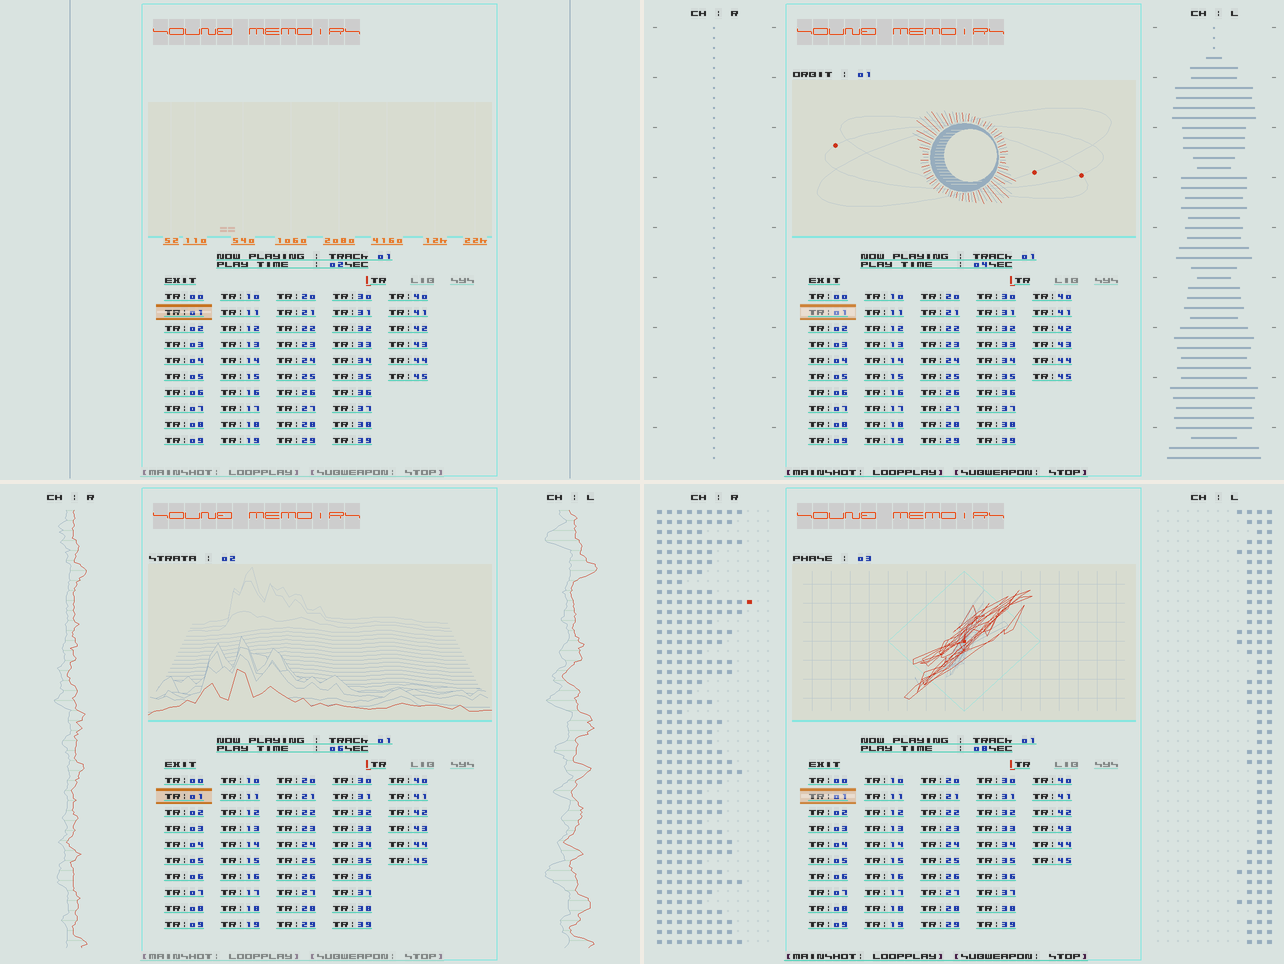
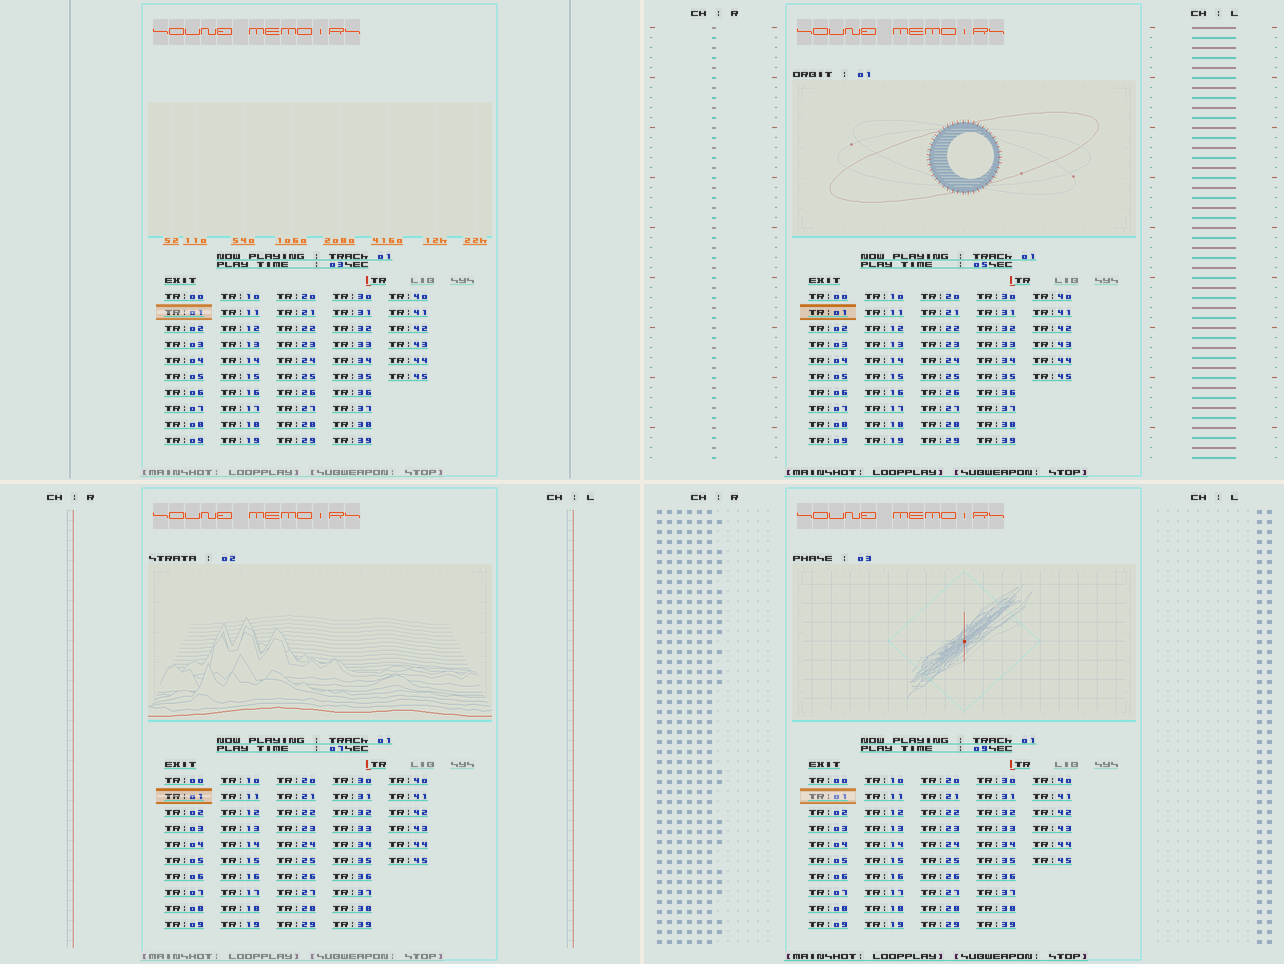
feat(windows): sharpen playback motion and wing color scales
fix: drive stage envelopes by elapsed time and clear stale motion on stop

fix: keep custom stage modes independent of playback frame timing

feat: expand the eclipse ring from low-frequency onset and sustain

feat: alternate wing rows between two theme colors and add fixed edge scales

feat: add shared calibration paper to custom stage modes

diff --git a/src/stage.cpp b/src/stage.cpp
@@ -1,4 +1,5 @@
 #include "stage.h"
+#include <algorithm>
 #include <cmath>
 #include <cstdio>
 
@@ -11,11 +12,45 @@ const wchar_t* wingName(int i){
     static const wchar_t* names[]={L"Auto / 跟随中央",L"Level / 原版电平",L"Fold / 折叠波形",L"Ribbon / 双线带谱",L"Matrix / 点阵"};
     return names[i>=0 && i<wingCount?i:0];
 }
-void Memory::advance(const memoirs::Spectrum& s,int id,double seconds,bool running){
-    if(id!=track || (running && last>=0 && (seconds+.10<last || seconds-last>1.0))) {
+namespace {
+float follow(float current,float target,float dt,double attack,double release){
+    const double tau=target>current?attack:release;
+    return current+(target-current)*float(1.0-std::exp(-dt/tau));
+}
+float smoothstep(float edge0,float edge1,float value){
+    const float t=std::clamp((value-edge0)/(edge1-edge0),0.f,1.f);
+    return t*t*(3.f-2.f*t);
+}
+float channelDrive(float env,const float* wave){
+    double sum=0;
+    for(int i=0;i<240;i+=4){const double v=wave[i]/64.0;sum+=v*v;}
+    const float rms=float(std::sqrt(sum/60.0));
+    return smoothstep(.02f,.78f,std::max(env*2.7f,rms*1.8f));
+}
+}
+void Memory::advance(const memoirs::Spectrum& s,int id,double seconds,bool playing,bool paused){
+    if(id!=track || (playing && motion>=0 && (seconds+.10<motion || seconds-motion>1.0))){
         *this=Memory{}; track=id;
     }
-    if(!running || (last>=0 && seconds>=last && seconds-last<.045))return;
+    if(!playing){*this=Memory{};track=id;return;}
+    if(paused)return;
+    float dt=motion>=0?float(seconds-motion):1.f/60.f;
+    if(dt<=0)return;
+    dt=std::clamp(dt,.001f,.12f);
+    motion=seconds;
+
+    float low=0;
+    for(int i=0;i<6;++i)low+=std::clamp(s.barsLevel[i]/96.f,0.f,1.f);
+    low/=6.f;
+    lowFloor=follow(lowFloor,low,dt,.18,1.1);
+    lowSustain=follow(lowSustain,low,dt,.045,.75);
+    const float attack=std::max(0.f,low-lowFloor)*1.55f+std::max(0.f,low-lastLow)*.85f;
+    impact=follow(impact,std::clamp(attack,0.f,1.f),dt,.022,.24);
+    lastLow=low;
+    wing[0]=follow(wing[0],channelDrive(s.envL,s.waveL),dt,.030,.30);
+    wing[1]=follow(wing[1],channelDrive(s.envR,s.waveR),dt,.030,.30);
+
+    if(last>=0 && seconds>=last && seconds-last<.045)return;
     last=seconds;
     head=(head+1)%24; trace=(trace+1)%6; samples=std::min(24,samples+1);
     for(int i=0;i<43;i++)ridges[head][i]=std::min(1.f,s.barsLevel[i]/96.f);
@@ -43,22 +78,28 @@ POINT orbit(double a,double rad,double squash,double angle,int x,int y){
     double u=rad*cos(a),v=rad*squash*sin(a);
     return {LONG(std::lround(x+u*cos(angle)-v*sin(angle))),LONG(std::lround(y+u*sin(angle)+v*cos(angle)))};
 }
-void eclipse(Paper p,const Palette& c,const memoirs::Spectrum& s,double time){
+void eclipse(Paper p,const Palette& c,const memoirs::Spectrum& s,const Memory& m){
     constexpr int cx=320,cy=157;
+    const int ring=136+int(14*m.lowSustain+12*m.impact);
     for(int k=0;k<3;k++){
         POINT pts[97];const double tilt=(k-1)*.24;
-        for(int j=0;j<=96;j++)pts[j]=orbit(tau*j/96,151-k*12,.23,tilt,cx,cy);
-        p.path(pts,97,c.grid);
-        auto q=orbit(time*(.23+k*.08)+k*2,151-k*12,.23,tilt,cx,cy);
-        p.disc(q.x,q.y,2,c.accent);
+        for(int j=0;j<=96;j++)pts[j]=orbit(tau*j/96,ring-k*12,.23,tilt,cx,cy);
+        p.path(pts,97,k==0&&m.impact>.08f?mix(c.grid,c.accent,.28+.36*m.impact):c.grid);
+        if(m.lowSustain>.035f){
+            auto q=orbit(std::max(0.,m.last)*(.23+k*.08)+k*2,ring-k*12,.23,tilt,cx,cy);
+            p.disc(q.x,q.y,1+int(2*m.impact),mix(c.grid,c.accent,.32+.68*m.impact));
+        }
     }
-    p.disc(cx,cy,34,c.line);
-    for(int y=-30;y<=30;y+=3){int w=int(sqrt(900-y*y));p.rule(cx-w,cy+y,cx+w,cy+y,c.field);}
-    p.disc(cx+6,cy-2,26,c.field);
+    const int core=30+int(5*m.lowSustain+6*m.impact);
+    p.disc(cx,cy,core+4,c.line);
+    for(int y=-core;y<=core;y+=3){int w=int(sqrt(std::max(0,core*core-y*y)));p.rule(cx-w,cy+y,cx+w,cy+y,c.field);}
+    p.disc(cx+6,cy-2,std::max(18,core-8),c.field);
+    const int inner=34+int(8*m.impact);
     for(int j=0;j<86;j++){
         double a=tau*j/86;
-        int r=39+int(sqrt(std::min(1.f,s.barsLevel[j%43]/100.f))*25);
-        auto v=orbit(a,36,1,0,cx,cy),w=orbit(a,r,1,0,cx,cy);
+        const float local=std::sqrt(std::min(1.f,s.barsLevel[j%43]/100.f));
+        int r=inner+4+int(local*24+7*m.impact);
+        auto v=orbit(a,inner,1,0,cx,cy),w=orbit(a,r,1,0,cx,cy);
         p.rule(v.x,v.y,w.x,w.y,j%2?c.line:c.accent);
     }
 }
@@ -90,6 +131,38 @@ void phase(Paper p,const Palette& c,const Memory& m){
     }
     p.fill(x-1,y-1,3,3,c.accent);
 }
+void calibration(Paper p,const Palette& c){
+    const C dot=mix(c.field,c.grid,.32);
+    const C guide=mix(c.field,c.grid,.13);
+    for(int x=172;x<484;x+=48)p.rule(x,88,x,228,guide);
+    for(int y=92;y<232;y+=32)p.rule(158,y,482,y,guide);
+    for(int y=88;y<232;y+=12)
+        for(int x=156;x<484;x+=12)p.fill(x,y,1,1,dot);
+
+    const C rail=mix(c.field,c.grid,.62);
+    p.rule(154,84,154,232,rail);
+    p.rule(486,84,486,232,rail);
+    for(int y=88,i=0;y<232;y+=6,++i){
+        const int length=i%5==0?6:2;
+        p.rule(154,y,154+length,y,rail);
+        p.rule(486-length,y,486,y,rail);
+    }
+    for(int x=160,x0=0;x<486;x+=8,++x0){
+        const int length=x0%5==0?4:2;
+        p.rule(x,84,x,84+length,rail);
+        p.rule(x,232-length,x,232,rail);
+    }
+    for(int k=0;k<12;k++){
+        p.rule(158+k,88,158,88,rail);
+        p.rule(482-k,88,482,88,rail);
+        p.rule(158+k,228,158,228,rail);
+        p.rule(482-k,228,482,228,rail);
+    }
+    p.rule(158,88,158,100,rail);
+    p.rule(482,88,482,100,rail);
+    p.rule(158,216,158,228,rail);
+    p.rule(482,216,482,228,rail);
+}
 }
 void paint(const Palette& c,HDC d,float scale,int mode,const memoirs::Spectrum& s,const Memory& m){
     int save=SaveDC(d);if(!save)return;
@@ -97,7 +170,8 @@ void paint(const Palette& c,HDC d,float scale,int mode,const memoirs::Spectrum& 
     SetViewportExtEx(d,int(640*scale+.5f),int(480*scale+.5f),nullptr);
     IntersectClipRect(d,148,80,492,238);SelectObject(d,GetStockObject(DC_PEN));SelectObject(d,GetStockObject(DC_BRUSH));
     Paper p{d};p.fill(148,80,344,158,c.field);
-    if(mode==1)eclipse(p,c,s,std::max(0.,m.last));else if(mode==2)strata(p,c,m);else phase(p,c,m);
+    calibration(p,c);
+    if(mode==1)eclipse(p,c,s,m);else if(mode==2)strata(p,c,m);else phase(p,c,m);
     p.fill(148,236,344,2,c.frame);
     RestoreDC(d,save);
 }

diff --git a/src/ui.cpp b/src/ui.cpp
@@ -1033,7 +1033,7 @@ void moveCursor(int delta) {
     if(!matches.empty()) cursor=std::clamp(cursor+delta,0,(int)matches.size()-1);
 }
 void playCursor() { if(!matches.empty()) OpenMusic(g_app.playlist[matches[cursor]]); }
-void PaintWings(HDC dc,int style){
+void PaintWings(HDC dc,int style,const stage::Memory& motion){
     if(style==1){ PaintLevelMeter(dc); PaintSideWave(dc); return; }
     const auto& t=Th();
     for(int side=0;side<2;++side){
@@ -1052,14 +1052,26 @@ void PaintWings(HDC dc,int style){
             SetDCPenColor(dc,t.wave);Polyline(dc,upper,220);
             SetDCPenColor(dc,t.bar);Polyline(dc,lower,220);SelectObject(dc,old);
         }else{
+            const int span=2+int(61*std::clamp(motion.wing[side],0.f,1.f));
             for(int row=0;row<44;row++){
                 float peak=0;
                 for(int j=0;j<5;j++)peak=std::max(peak,std::abs(wave[row*5+j]));
-                int width=1+int(59*sqrt(std::min(1.f,peak/64.f))), y=27+row*10;
+                const float contour=.34f+.66f*sqrt(std::min(1.f,peak/64.f));
+                int width=2+int((span-2)*contour), y=27+row*10;
                 if(style==2){
-                    FillRectCol(dc,S(base-width),S(y),S(base+width),S(y+2),t.wave);
-                    if(row%5==0)for(int edge:{-61,58})
-                        FillRectCol(dc,S(base+edge),S(y),S(base+edge+4),S(y+1),t.hint);
+                    const float heat=std::clamp(contour*.62f+motion.wing[side]*.38f,0.f,1.f);
+                    const COLORREF ink=row&1
+                        ?LerpCol(t.wave,t.underline,.62f+.16f*heat)
+                        :LerpCol(t.wave,t.bar,.08f+.34f*heat);
+                    FillRectCol(dc,S(base-width),S(y),S(base+width),S(y+2),ink);
+                    const int length=row%5==0?5:2;
+                    const COLORREF tick=row%5==0
+                        ?LerpCol(t.hint,t.bar,.34f+.34f*heat)
+                        :LerpCol(t.hint,t.underline,.42f+.22f*heat);
+                    for(int edge:{-64,63}){
+                        const int x=base+edge;
+                        FillRectCol(dc,S(x),S(y),S(x+(edge<0?length:-length)),S(y+1),tick);
+                    }
                 }else{
                     for(int col=0;col<12;col++){
                         int x=base+(side?-1:1)*(col*10-55);
@@ -1077,7 +1089,7 @@ void PaintScene(HDC dc) {
     SetBkMode(dc, TRANSPARENT);
     PaintBackdrop(dc);
     const int mode=g_app.settings->stageMode;
-    PaintWings(dc,g_app.settings->wingMode?g_app.settings->wingMode:mode+1);
+    PaintWings(dc,g_app.settings->wingMode?g_app.settings->wingMode:mode+1,stageMemory);
     PaintFrame(dc);
     if(!mode) PaintSpectrum(dc);
     else {
@@ -1165,9 +1177,9 @@ void OnTimer(HWND hwnd) {
         if(next>=0 && next<count) OpenMusic(app.playlist[next]);
     }
     UpdateVisualization();
-    if(app.settings->stageMode)
-        stageMemory.advance(app.spectrum,app.current==kTrackCount?kTrackCount+app.localIndex:app.current,
-            app.audio.positionSeconds(),app.audio.isPlaying()&&!app.audio.isPaused());
+    const bool playing=app.audio.isPlaying();
+    stageMemory.advance(app.spectrum,app.current==kTrackCount?kTrackCount+app.localIndex:app.current,
+        app.audio.positionSeconds(),playing,playing&&app.audio.isPaused());
     ++app.tick;
     InvalidateRect(hwnd, NULL, FALSE);
 }

diff --git a/src/stage.h b/src/stage.h
@@ -11,10 +11,13 @@ const wchar_t* wingName(int mode);
 struct Memory {
     std::array<std::array<float,43>,24> ridges{};
     std::array<std::array<POINT,120>,6> traces{};
+    float lowSustain=0, impact=0, lowFloor=0, lastLow=0;
+    float wing[2]{};
     int head=0, trace=0, samples=0;
     double last=-1;
+    double motion=-1;
     int track=-1;
-    void advance(const memoirs::Spectrum&, int id, double seconds, bool running);
+    void advance(const memoirs::Spectrum&, int id, double seconds, bool playing, bool paused);
 };
 struct Palette { COLORREF field, grid, line, accent, frame; };
 void paint(const Palette&,HDC,float scale,int mode,const memoirs::Spectrum&,const Memory&);

diff --git a/docs/visual-motion-roadmap.md b/docs/visual-motion-roadmap.md
@@ -1,6 +1,6 @@
 # Windows 播放演出：下一轮动效调整意图
 
-2026-11-17 · 设计交接 / 待实施。范围：Windows 原生播放器的中央演出（F7）与左右侧翼（F8）。
+2026-11-17 · 设计交接 / 首轮已实施。范围：Windows 原生播放器的中央演出（F7）与左右侧翼（F8）。
 
 **用户反馈：当前设计还不够动态，幅度和效果感受都不够。** 下一轮先不增加模式。目标是让人不看频谱数字，也能从画面看出重拍落在哪里、乐句何时抬升、声音怎样散去。原版字格、面板比例、主题配色和左右声道分工继续保留；原版模式作为对照，不改它的响应。
 
@@ -25,6 +25,25 @@
 4. **按听感决定保留。** 同一片段并排看旧版/新版：闭眼听到的重音，睁眼能否在同一拍看到明显位移？强奏后是否还有下一拍的余量？低音量段是否仍能看出哪边在响？最后在 ORIGINAL 和 DARK 各看一次，检查 1× 可读性与 2× 播放流畅度。若只是更亮、更忙，却没有更清楚的起落，撤回该项调整。
 
 下一次可评审的交付：**一组同曲同起点、带声音的前后对照片段，一份实际采用的幅度/时间参数，以及保留或放弃每项变化的理由。** 先验收运动，再决定是否值得扩成新的演出模式。
+
+## 首轮实施记录
+
+2026-11-17 已落地「星蚀 + 折叠波形」及所有自定义演出共用的仪器底纹。对比图见 [windows-stages.png](windows-stages.png)。ORIGINAL 的频谱响应保持原样。
+
+| 项目 | 实际采用 |
+| --- | --- |
+| 星蚀低频持续量 | 起音 45 ms、回落 750 ms；低频基底跟踪 180 ms / 1.1 s，用来区分持续低频和新的起音。 |
+| 星蚀瞬态 | 起音 22 ms、回落 240 ms；主环基准半径 136，持续量最多推 14 像素，新起音再推 12 像素。中高频仍只控制局部径向刻线。 |
+| 折叠波形 | 每声道快起慢落包络为 30 ms / 300 ms；半翼最大行程 61 逻辑像素，强拍通常落到单翼可用宽度的 70%–85%，极强时才接近边缘。 |
+| 两翼色彩 | 44 行按奇偶分色：奇数行从波形色过渡到 underline 色，偶数行从波形色过渡到热点色；能量越高，两套颜色各自向自己的热点靠拢。 |
+| 两翼刻度 | 每行都有短刻度，每五行加长；刻度贴在两翼固定外缘，因此安静时仍有比例，强拍时宽度变化直接对刻度读数。 |
+| 自定义演出底纹 | 12 像素点阵、48 / 32 像素淡导引线、四边短长刻度和角框；只进入星蚀、地层、相位，不进入 ORIGINAL。 |
+
+**保留：** 星环整体半径随低频撑开、中央先收而两翼后落、奇偶双色行、固定边缘刻度、共用仪器纸底。
+
+**放弃：** 在中央再叠一层行星仪/靶盘装饰。实际截图里它让中心过密，也削弱了原有月食轮廓，和用户期望的“中央已经填满，处理外围空白”方向相反。
+
+**验证：** Windows `--selftest` 解析 46/46 首并通过前三首实包解码；公共核心测试 2/2 通过；在 ORIGINAL、DARK 两种主题和 2× 窗口下用合成轻奏、孤立重拍、持续强奏、左右交替声部逐帧截图检查。
 
 ## 候选演出：机械 DNA / HELIX
 
